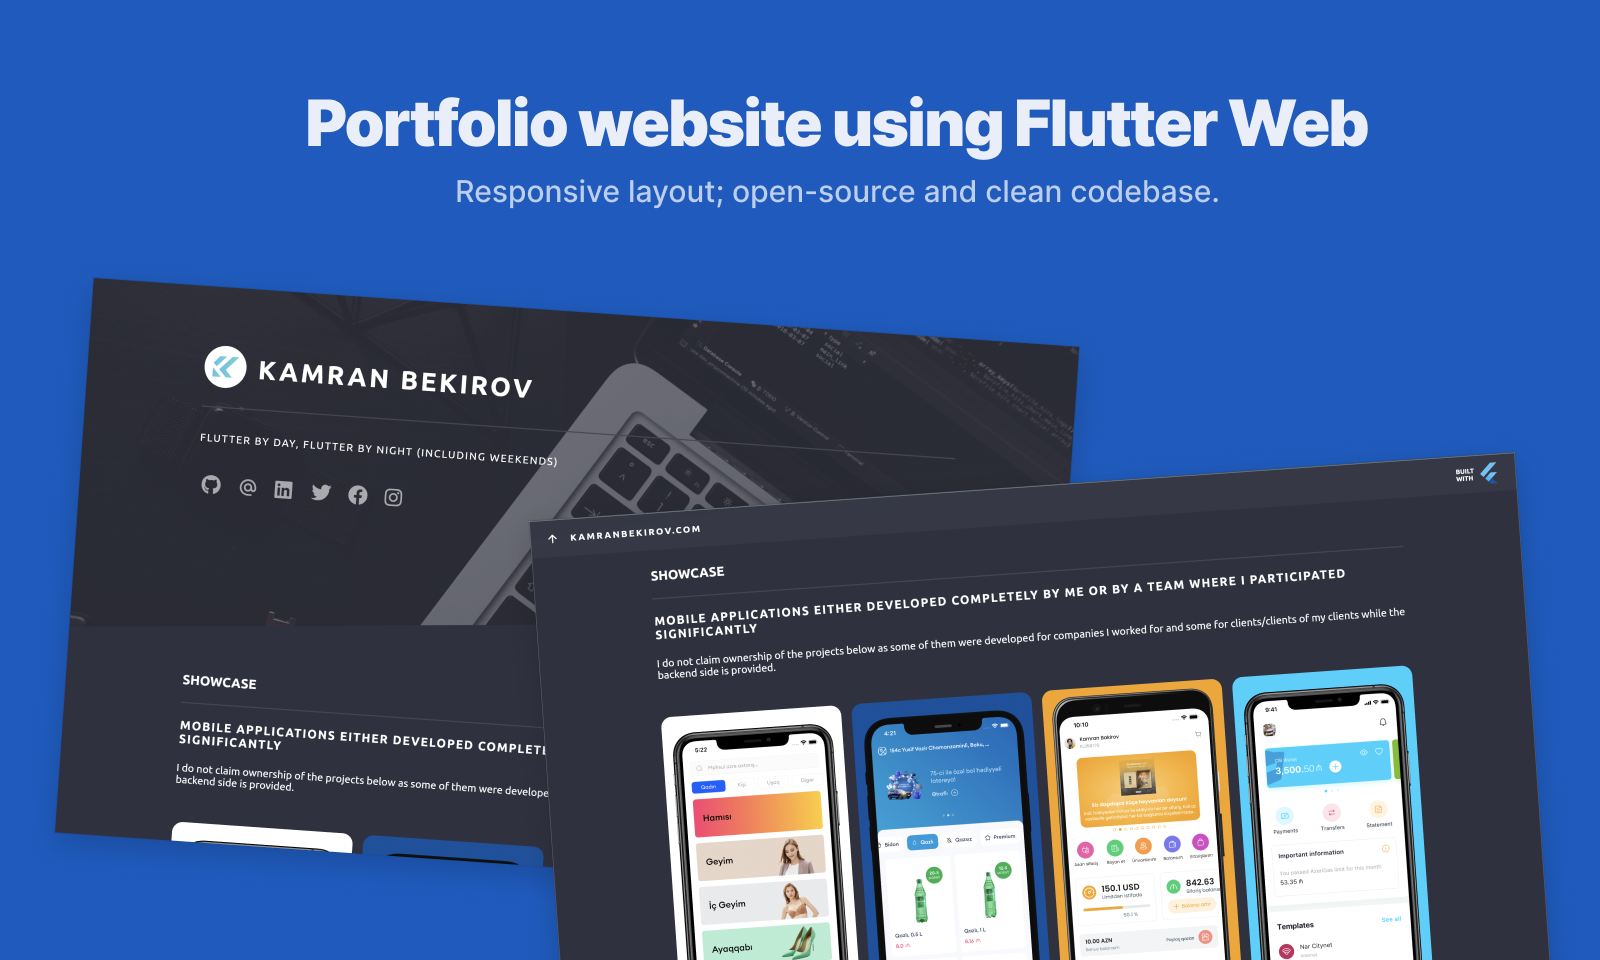
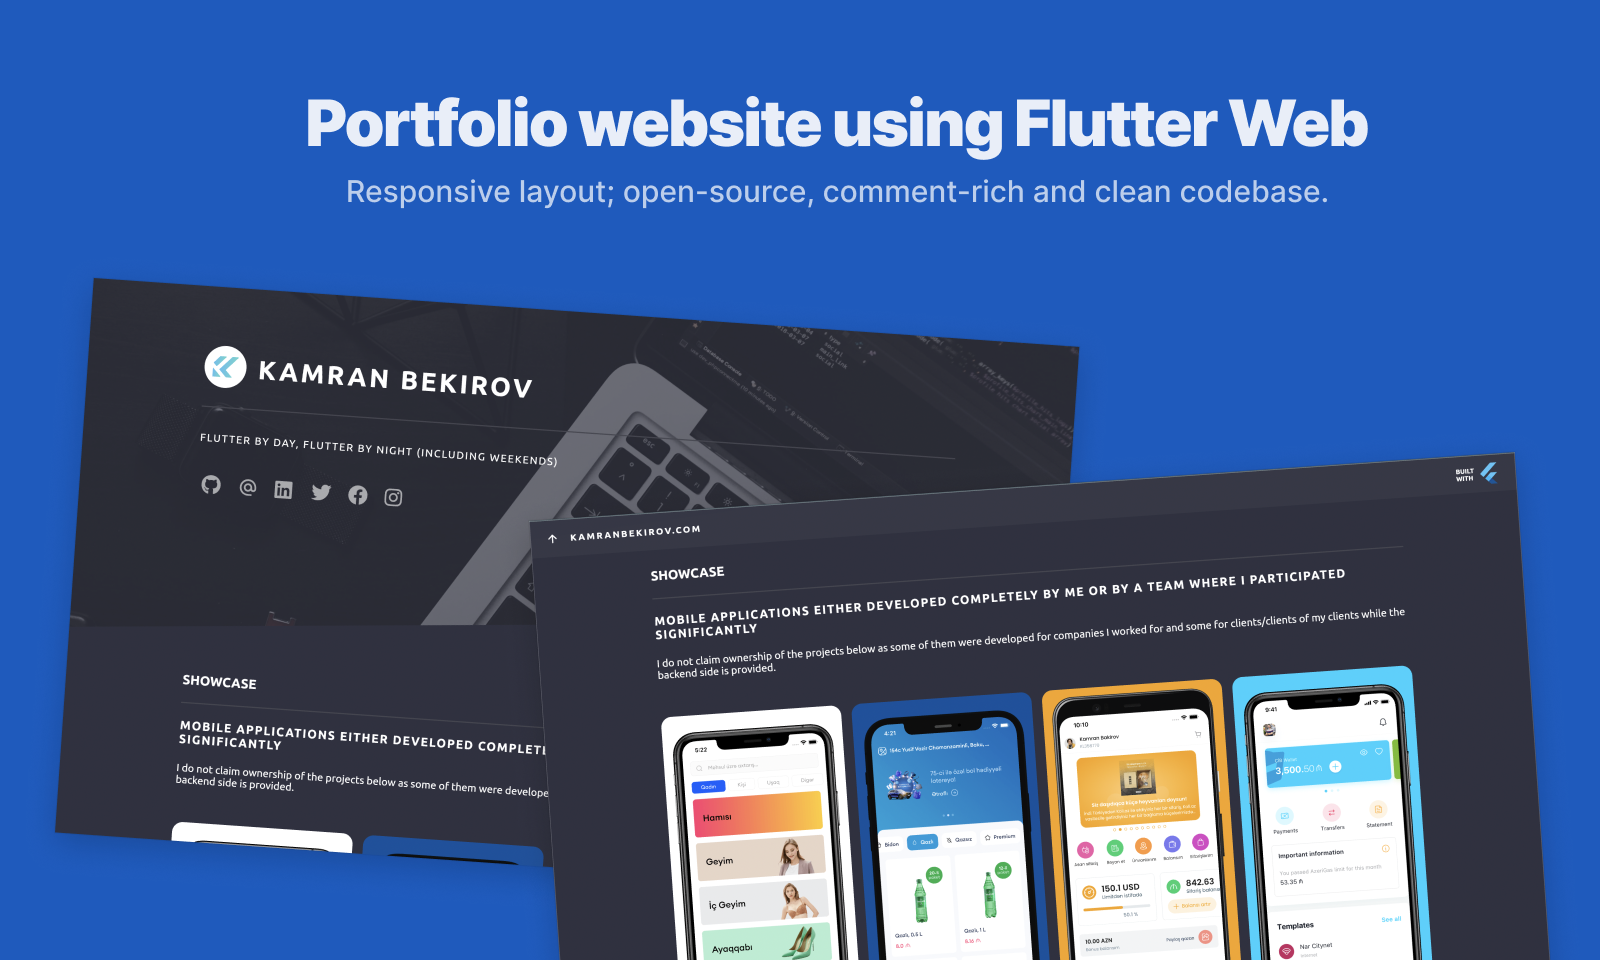
New cover image and detailed README

Changed region(s): [[0.2188, 0.1875, 0.8438, 0.2188]]

diff --git a/README.md b/README.md
@@ -6,15 +6,9 @@ responsive layout; open-source and clean codebase.
 
 ## 🚀 Motivation
 
-Motivation for creating package/plugin.
+Previously, I had a web portfolio for myself hosted at <a href="https://kamranbekirov.com">kamranbekirov.com</a> built with HTML and CSS. While learning Flutter web I tought it might be interesting to build the same website but now using Flutter web and responsiveness (mobile, tablet, desktop) in mind. On that journey I've added many animations to make website interactive.
 
-## 🕹 Usage
-
-To get started..
-
-```dart
-final int a = 1;
-```
+The codebase is open-source and rich of comments. Altough you can use it anyway you want, beware that it (my old website that was built with HTML and CSS to be more specific) was inspired and cloned from open-source template called <a href="https://html5up.net/solid-state">Solid state</a>. So, in case of usage I suggest you to respect its authors, do not use my personal logo as it is yours. 🤓
 
 ## 🤓 Contributors
 
@@ -26,7 +20,7 @@ Give credits to people/packages/plugins/whomever/whatever was/were an inspiratio
 
 ## 🙏 Credits
 
-The design is inspired by a template from html5up called <a href="https://html5up.net/solid-state">Solid state</a>.
+The design is inspired by a template from <a href="https://html5up.net">html5up.net</a> called <a href="https://html5up.net/solid-state">Solid state</a>.
 
 ## 🐞 Bugs/Requests
 
@@ -34,4 +28,4 @@ If you encounter any problems please open an issue. If you feel the library is m
 
 ## 📃 License
 
-MIT License
+[MIT License](https://github.com/kamranbekirovyz/flutter-web-portfolio/blob/master/LICENSE)
